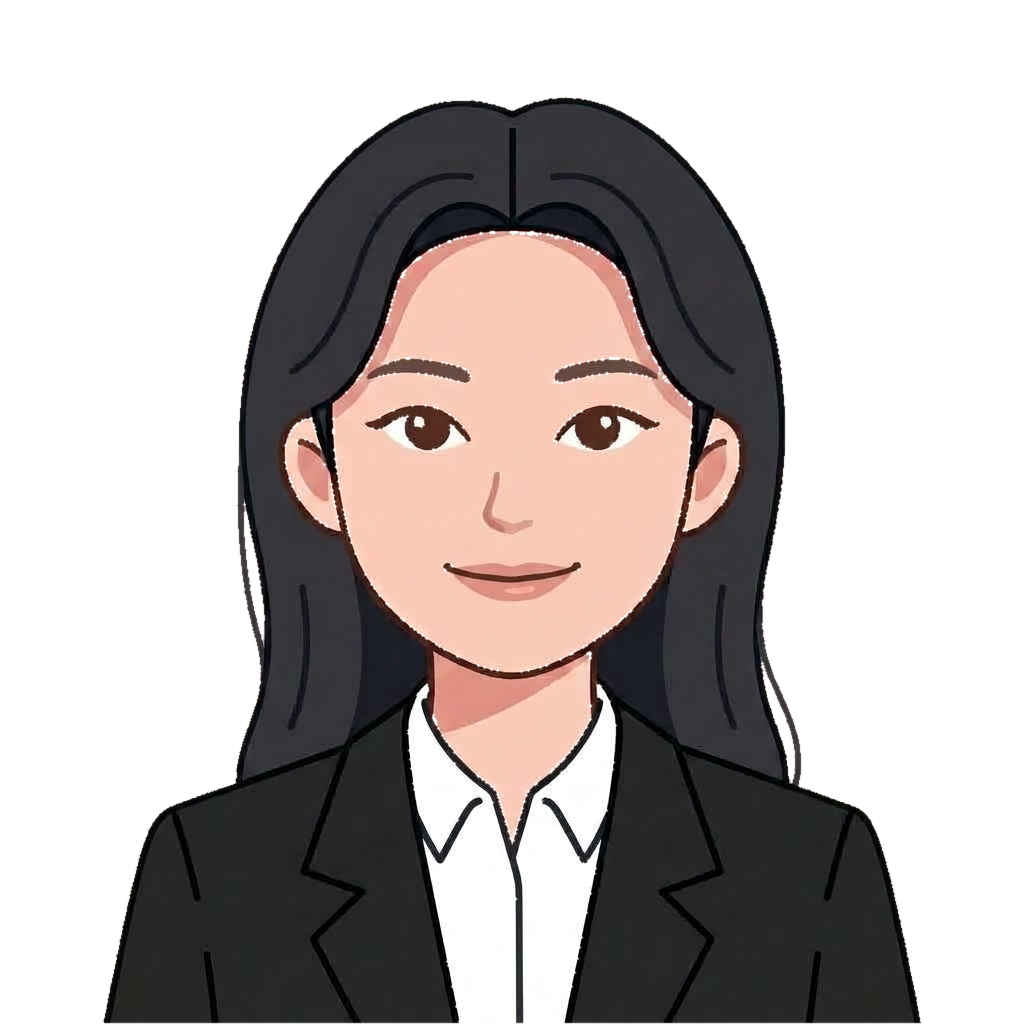
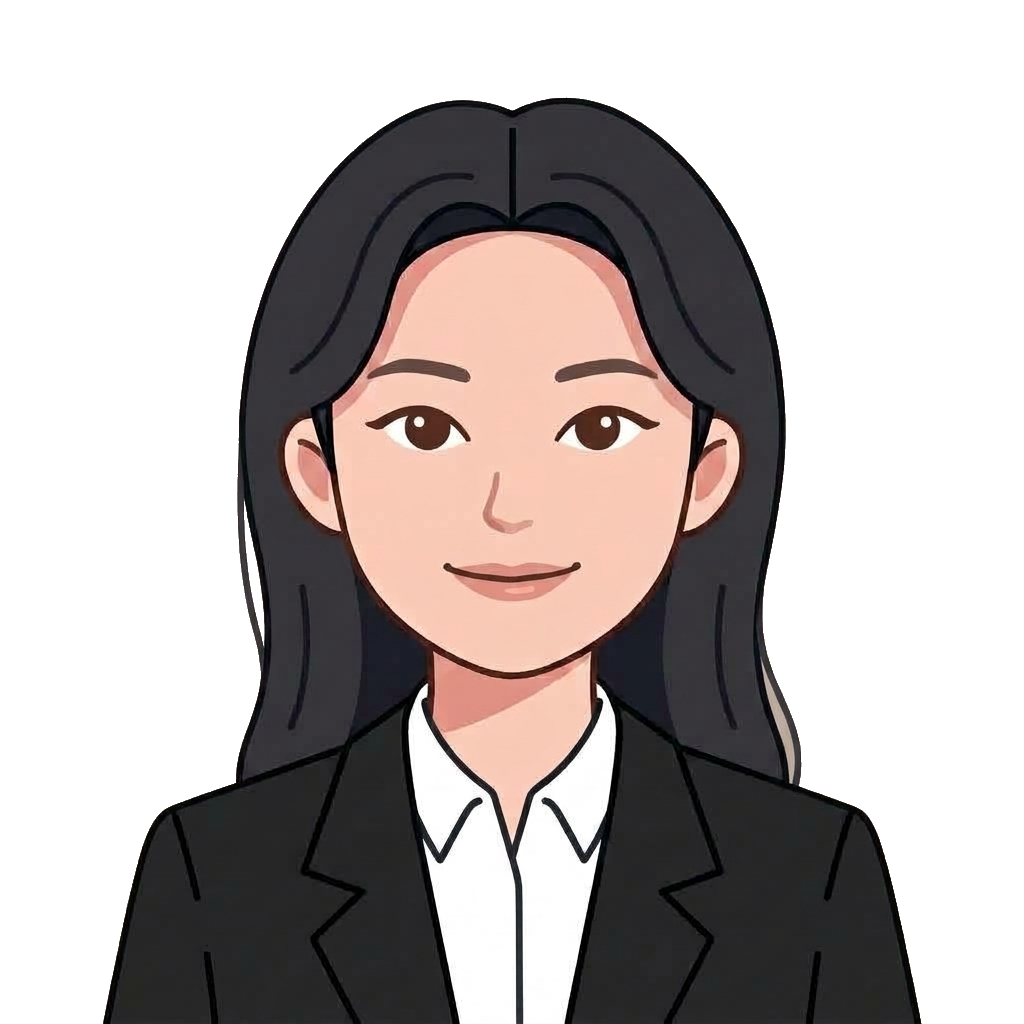
style: 프로필 이미지 헤어라인 복원, 잔머리 틈새 배경 투명화 및 테두리 익은 무화과색 적용

diff --git a/css/style.css b/css/style.css
@@ -22,6 +22,14 @@
     --shadow-lg: 0 16px 40px rgba(69, 22, 32, 0.12);
     --font-heading: 'Nanum Myeongjo', serif;
     --font-body: 'Nanum Gothic', -apple-system, BlinkMacSystemFont, system-ui, sans-serif;
+    /* 1rem을 기준으로 단계마다 1.25배. 역할별로 필요한 단계만 사용한다. */
+    --text-sm: 0.8rem;
+    --text-base: 1rem;
+    --text-lg: 1.25rem;
+    --text-xl: 1.5625rem;
+    --text-2xl: 1.953125rem;
+    --text-3xl: 2.44140625rem;
+    --text-4xl: 3.0517578125rem;
     --radius-sm: 8px;
     --radius-md: 14px;
     --radius-lg: 20px;
@@ -60,8 +68,10 @@ body {
     font-family: var(--font-body);
     background: var(--bg-main);
     color: var(--text-main);
-    line-height: 1.6;
-    letter-spacing: -0.015em;
+    font-size: var(--text-base);
+    font-weight: 400;
+    line-height: 1.7;
+    letter-spacing: 0;
     overflow-wrap: anywhere;
     transition: background-color 0.3s cubic-bezier(0.4, 0, 0.2, 1), color 0.3s cubic-bezier(0.4, 0, 0.2, 1);
 }
@@ -96,7 +106,8 @@ ul { list-style: none; }
 }
 .header-inner h1 {
     font-family: var(--font-heading);
-    font-size: 1.35rem;
+    font-size: var(--text-xl);
+    line-height: 1.2;
     font-weight: 700;
     letter-spacing: -0.01em;
     text-transform: lowercase;
@@ -116,8 +127,9 @@ ul { list-style: none; }
 #nav-menu a {
     display: block;
     padding: 0.65rem 0.75rem;
-    font-size: 0.98rem;
-    font-weight: 600;
+    font-size: var(--text-base);
+    font-weight: 400;
+    line-height: 1.5;
     color: var(--text-title);
     text-decoration: underline;
     text-decoration-color: transparent;
@@ -141,37 +153,38 @@ section { padding-block: clamp(4.5rem, 8vw, 7.5rem); border-bottom: 1px solid va
     justify-content: center;
     padding-bottom: clamp(2rem, 5vw, 4rem);
 }
-#hero h2 { margin-bottom: 0.75rem; }
-#hero p { font-size: clamp(1.05rem, 2vw, 1.25rem); color: var(--text-muted); }
-#hero .btn { margin-top: clamp(1.75rem, 3vw, 2.5rem); }
+#hero h2 { font-size: clamp(var(--text-xl), 1rem + 3vw, var(--text-4xl)); margin-bottom: var(--space-sm); line-height: 1.2; }
+#hero p { font-size: clamp(var(--text-base), 0.9rem + 0.5vw, var(--text-lg)); color: var(--text-muted); }
+#hero .btn { margin-top: var(--space-md); }
 
-h1, h2, h3 { font-family: var(--font-heading); letter-spacing: -0.025em; font-weight: 700; color: var(--text-title); }
-h2 { font-size: clamp(2rem, 4.5vw, 3.1rem); margin-bottom: 0.5rem; line-height: 1.2; letter-spacing: -0.025em; }
+h1, h2, h3 { font-family: var(--font-heading); letter-spacing: -0.02em; font-weight: 700; color: var(--text-title); word-break: keep-all; }
+h2 { font-size: clamp(var(--text-xl), 1.25rem + 1vw, var(--text-2xl)); margin-bottom: var(--space-xs); line-height: 1.2; }
 .accent-text { color: var(--accent); }
-p { color: var(--text-main); font-size: 1.05rem; }
+p { color: var(--text-main); font-size: var(--text-base); }
 p + p { margin-top: var(--space-sm); }
 .about-content {
     display: flex;
     flex-direction: column;
-    gap: 1.5rem;
+    gap: var(--space-md);
     align-items: center;
     text-align: center;
-    margin-top: clamp(2rem, 3.5vw, 2.75rem);
+    margin-top: var(--space-md);
 }
+.about-content > p { max-width: 65ch; line-height: 1.75; word-break: keep-all; }
 .profile-image {
     width: 140px;
     height: 140px;
     object-fit: cover;
     border-radius: var(--radius-lg);
-    border: 2px solid var(--fig-green);
-    box-shadow: 0 4px 16px var(--fig-green-light);
+    border: 2px solid var(--accent);
+    box-shadow: 0 4px 16px var(--focus-ring);
 }
 .skills-list {
     display: flex;
     flex-wrap: wrap;
-    gap: 0.55rem;
+    gap: var(--space-xs);
     justify-content: center;
-    margin-top: clamp(1.75rem, 3vw, 2.25rem);
+    margin-top: var(--space-md);
 }
 .skills-list li {
     padding: 0.55rem 1.05rem;
@@ -179,8 +192,8 @@ p + p { margin-top: var(--space-sm); }
     color: var(--fig-green);
     border: 1px solid var(--border-color);
     border-radius: 980px;
-    font-size: 0.9rem;
-    font-weight: 600;
+    font-size: var(--text-base);
+    font-weight: 700;
     box-shadow: var(--shadow-sm);
     transition: transform 0.2s ease;
 }
@@ -198,8 +211,9 @@ button, .btn {
     border-radius: 980px;
     background: var(--accent);
     color: var(--text-inverse);
-    font-weight: 500;
-    font-size: 0.95rem;
+    font-weight: 700;
+    font-size: var(--text-base);
+    line-height: 1.5;
     font-family: var(--font-body);
     text-decoration: none;
     cursor: pointer;
@@ -286,16 +300,54 @@ button:disabled { cursor: wait; opacity: 0.5; }
 }
 #hamburger-btn:active { transform: scale(0.94); }
 
-#github-container { margin-top: clamp(2rem, 3.5vw, 2.75rem); }
+#github-container { margin-top: var(--space-md); }
+
+/* 언어별 프로젝트 필터 버튼 그룹 */
+.filter-group {
+    display: flex;
+    flex-wrap: wrap;
+    gap: var(--space-xs);
+    justify-content: center;
+    margin-top: var(--space-sm);
+}
+.filter-btn {
+    padding: 0.45rem 1rem;
+    font-size: max(0.875rem, var(--text-sm));
+    font-weight: 400;
+    border-radius: 980px;
+    background: transparent;
+    color: var(--text-muted);
+    border: 1px solid var(--border-color);
+    box-shadow: var(--shadow-sm);
+    cursor: pointer;
+    transition: all 0.2s cubic-bezier(0.4, 0, 0.2, 1);
+}
+.filter-btn:hover {
+    color: var(--fig-green);
+    border-color: var(--fig-green);
+    background: var(--fig-green-light);
+    transform: translateY(-1px);
+}
+.filter-btn.active {
+    background: var(--fig-green);
+    color: var(--text-inverse);
+    border-color: var(--fig-green);
+    font-weight: 700;
+    box-shadow: 0 2px 8px var(--fig-green-light);
+}
+
 /* Projects 카드: Grid 사용 (auto-fit, minmax로 반응형) */
 #repo-list, .grid-container {
     display: grid;
-    grid-template-columns: repeat(auto-fit, minmax(280px, 1fr));
+    grid-template-columns: repeat(auto-fit, minmax(min(100%, 280px), 1fr));
     gap: clamp(1.25rem, 2vw, 1.6rem);
-    margin-top: 1.25rem;
+    margin-top: var(--space-md);
 }
 .card {
     min-width: 0;
+    display: flex;
+    flex-direction: column;
+    justify-content: space-between;
     padding: 1.35rem 1.25rem;
     background: var(--bg-surface);
     border: 1px solid var(--border-color);
@@ -303,7 +355,44 @@ button:disabled { cursor: wait; opacity: 0.5; }
     box-shadow: var(--shadow-sm);
     transition: transform 0.3s cubic-bezier(0.4, 0, 0.2, 1), box-shadow 0.3s cubic-bezier(0.4, 0, 0.2, 1), border-color 0.3s ease;
 }
-.card h3 { margin-bottom: 0.45rem; font-size: 1.2rem; line-height: 1.35; }
+.card-body { flex: 1; }
+.card-meta {
+    display: flex;
+    align-items: center;
+    justify-content: space-between;
+    margin-top: var(--space-sm);
+    padding-top: var(--space-sm);
+    border-top: 1px solid var(--border-color);
+}
+.repo-lang {
+    display: inline-flex;
+    align-items: center;
+    gap: 0.35rem;
+    font-size: max(0.875rem, var(--text-sm));
+    font-weight: 700;
+    color: var(--fig-green);
+}
+.repo-lang::before {
+    content: '';
+    display: inline-block;
+    width: 8px;
+    height: 8px;
+    border-radius: 50%;
+    background: var(--fig-green);
+}
+.repo-stars {
+    font-size: max(0.875rem, var(--text-sm));
+    color: var(--text-muted);
+    font-weight: 400;
+}
+.repo-empty-filter {
+    grid-column: 1 / -1;
+    text-align: center;
+    padding: 2.5rem 1rem;
+    color: var(--text-muted);
+    font-size: var(--text-base);
+}
+.card h3 { margin-bottom: var(--space-xs); font-size: var(--text-lg); line-height: 1.2; }
 .card h3 a {
     color: var(--text-title);
     text-decoration: underline;
@@ -315,10 +404,10 @@ button:disabled { cursor: wait; opacity: 0.5; }
     color: var(--repo-hover);
     text-decoration-color: var(--fig-green);
 }
-.card p { font-size: 0.95rem; line-height: 1.55; margin-bottom: 0; color: var(--text-muted); }
+.card p { font-size: var(--text-base); line-height: 1.7; margin-bottom: 0; color: var(--text-muted); }
 .card a {
     color: var(--accent);
-    font-weight: 500;
+    font-weight: inherit;
     text-decoration: underline;
     text-decoration-color: transparent;
     text-underline-offset: 0.25em;
@@ -329,14 +418,14 @@ button:disabled { cursor: wait; opacity: 0.5; }
     text-decoration-color: var(--fig-green);
 }
 .card:hover { transform: translateY(-4px); box-shadow: var(--shadow-md); border-color: var(--fig-green); }
-#api-status { display: inline-block; padding: 0.6rem 1.2rem; border-radius: 980px; background: var(--fig-green-light); color: var(--fig-green); font-size: 0.95rem; font-weight: 600; border: 1px solid var(--border-color); }
+#api-status { display: inline-block; padding: 0.6rem 1.2rem; border-radius: 980px; background: var(--fig-green-light); color: var(--fig-green); font-size: var(--text-base); font-weight: 700; border: 1px solid var(--border-color); }
 .api-error, .field-error, .form-error { color: var(--error); }
 #api-status.api-error { background: rgba(255, 92, 82, 0.12); color: var(--error); border-color: rgba(255, 92, 82, 0.25); }
-.form-success { color: var(--fig-green); background: var(--fig-green-light); padding: 0.75rem 1rem; border-radius: var(--radius-sm); border: 1px solid var(--fig-green); font-weight: 600; }
+.form-success { color: var(--fig-green); background: var(--fig-green-light); padding: 0.75rem 1rem; border-radius: var(--radius-sm); border: 1px solid var(--fig-green); font-weight: 700; }
 
-#contact-form { max-width: 520px; margin-top: clamp(2rem, 3.5vw, 2.75rem); }
-.form-group { margin-bottom: 1.25rem; }
-label { display: block; margin-bottom: 0.35rem; font-weight: 600; font-size: 0.88rem; }
+#contact-form { max-width: 520px; margin-top: var(--space-md); }
+.form-group { margin-bottom: var(--space-md); }
+label { display: block; margin-bottom: var(--space-xs); font-weight: 700; font-size: var(--text-base); }
 input, textarea {
     display: block;
     width: 100%;
@@ -345,7 +434,7 @@ input, textarea {
     border-radius: var(--radius-sm);
     background: var(--bg-surface);
     color: var(--text-main);
-    font: 1rem var(--font-body);
+    font: 400 var(--text-base)/1.7 var(--font-body);
     transition: border-color 0.2s ease, box-shadow 0.2s ease;
 }
 input:focus, textarea:focus {
@@ -355,7 +444,7 @@ input:focus, textarea:focus {
 }
 textarea { resize: vertical; }
 [aria-invalid="true"] { border-color: var(--error); }
-.field-error { min-height: 1.7em; font-size: 0.85rem; font-weight: 500; margin-top: 0.3rem; }
+.field-error { min-height: 1.7em; font-size: max(0.875rem, var(--text-sm)); font-weight: 400; margin-top: var(--space-xs); }
 #form-msg { margin-top: var(--space-sm); }
 #footer {
     width: 100%;
@@ -363,8 +452,8 @@ textarea { resize: vertical; }
     padding-block: clamp(2.5rem, 4vw, 3.5rem);
     margin-top: 0;
     color: var(--text-muted);
-    font-size: 0.82rem;
-    line-height: 1.5;
+    font-size: max(0.875rem, var(--text-sm));
+    line-height: 1.6;
 }
 .footer-inner {
     max-width: 1040px;
@@ -378,11 +467,12 @@ textarea { resize: vertical; }
     display: flex;
     flex-wrap: wrap;
     align-items: center;
-    gap: 0.5rem;
+    gap: var(--space-xs);
 }
 .footer-logo {
     font-family: var(--font-heading);
-    font-size: 0.95rem;
+    font-size: var(--text-base);
+    line-height: 1.2;
     font-weight: 700;
     color: var(--text-title);
     text-transform: lowercase;
@@ -395,20 +485,20 @@ textarea { resize: vertical; }
 }
 .footer-copyright {
     color: var(--text-muted);
-    font-size: 0.8rem;
+    font-size: inherit;
     letter-spacing: -0.01em;
     margin: 0;
 }
 .footer-links {
     display: flex;
     flex-wrap: wrap;
-    gap: 1.25rem;
+    gap: var(--space-sm);
     align-items: center;
 }
 .footer-links a {
     color: var(--text-muted);
     text-decoration: none;
-    font-size: 0.8rem;
+    font-size: inherit;
     letter-spacing: -0.01em;
     transition: color 0.2s ease;
 }
@@ -454,7 +544,7 @@ textarea { resize: vertical; }
 @media (min-width: 768px) {
     .header-inner, #main-content, .footer-inner { padding-inline: var(--space-lg); }
     .header-inner { flex-wrap: nowrap; justify-content: space-between; }
-    .header-inner h1 { font-size: 1.4rem; }
+    .header-inner h1 { font-size: var(--text-2xl); }
     /* 네비게이션: Flexbox 사용 (로고 왼쪽, 메뉴 오른쪽) */
     #nav-menu { display: flex; order: 0; flex-basis: auto; margin-left: auto; align-items: center; margin-top: 0; }
     #nav-menu ul { display: flex; flex-direction: row; gap: 1.25rem; padding: 0; border-top: none; }
@@ -465,7 +555,7 @@ textarea { resize: vertical; }
     .about-content { flex-direction: row; align-items: center; text-align: left; }
     .profile-image { width: 160px; height: 160px; }
     .skills-list { justify-content: flex-start; gap: 0.75rem; }
-    .skills-list li { padding: 0.6rem 1.2rem; font-size: 0.95rem; }
+    .skills-list li { padding: 0.6rem 1.2rem; }
     .card { padding: 1.75rem 1.6rem; }
     .footer-inner { flex-direction: row; justify-content: space-between; align-items: center; }
 }

diff --git a/index.html b/index.html
@@ -7,11 +7,11 @@
     <!-- 구글 폰트 (나눔명조, 나눔고딕) -->
     <link rel="preconnect" href="https://fonts.googleapis.com">
     <link rel="preconnect" href="https://fonts.gstatic.com" crossorigin>
-    <link href="https://fonts.googleapis.com/css2?family=Nanum+Gothic:wght@400;700;800&family=Nanum+Myeongjo:wght@400;700&display=swap" rel="stylesheet">
+    <link href="https://fonts.googleapis.com/css2?family=Nanum+Gothic:wght@400;700&family=Nanum+Myeongjo:wght@400;700&display=swap" rel="stylesheet">
     <!-- 외부 CSS 연결 -->
-    <link rel="stylesheet" href="css/style.css?v=1.1">
+    <link rel="stylesheet" href="css/style.css?v=2.2">
     <!-- 외부 JS 연결 (defer 속성 사용) -->
-    <script src="js/script.js" defer></script>
+    <script src="js/script.js?v=2" defer></script>
 </head>
 <body>
     <a class="skip-link" href="#main-content">본문으로 이동</a>
@@ -63,7 +63,7 @@
         <section id="about" class="fade-section">
             <h2>About</h2>
             <div class="about-content">
-                <img class="profile-image" src="images/profile.png?v=3" alt="hauteville1862의 프로필 캐리커처 일러스트" width="160" height="160" loading="lazy">
+                <img class="profile-image" src="images/profile.png?v=6" alt="hauteville1862의 프로필 캐리커처 일러스트" width="160" height="160" loading="lazy">
                 <p>HTML, CSS, JavaScript를 배우며 나를 소개하는 웹페이지를 만들고 있습니다. 작은 기능을 직접 확인하고, 코드의 동작을 제 말로 설명하는 연습을 합니다.</p>
             </div>
         </section>
@@ -82,6 +82,8 @@
         <!-- Projects 섹션 (GitHub API 연동) -->
         <section id="projects" class="fade-section">
             <h2>Projects</h2>
+            <!-- 필터 버튼 영역 (언어별 필터링) -->
+            <div id="project-filters" class="filter-group" aria-label="프로젝트 언어 필터"></div>
             <!-- 상태를 보여줄 컨테이너 (로딩/에러/빈상태/성공) -->
             <div id="github-container">
                 <div id="api-status" role="status" aria-live="polite">데이터를 불러오는 중입니다...</div>
